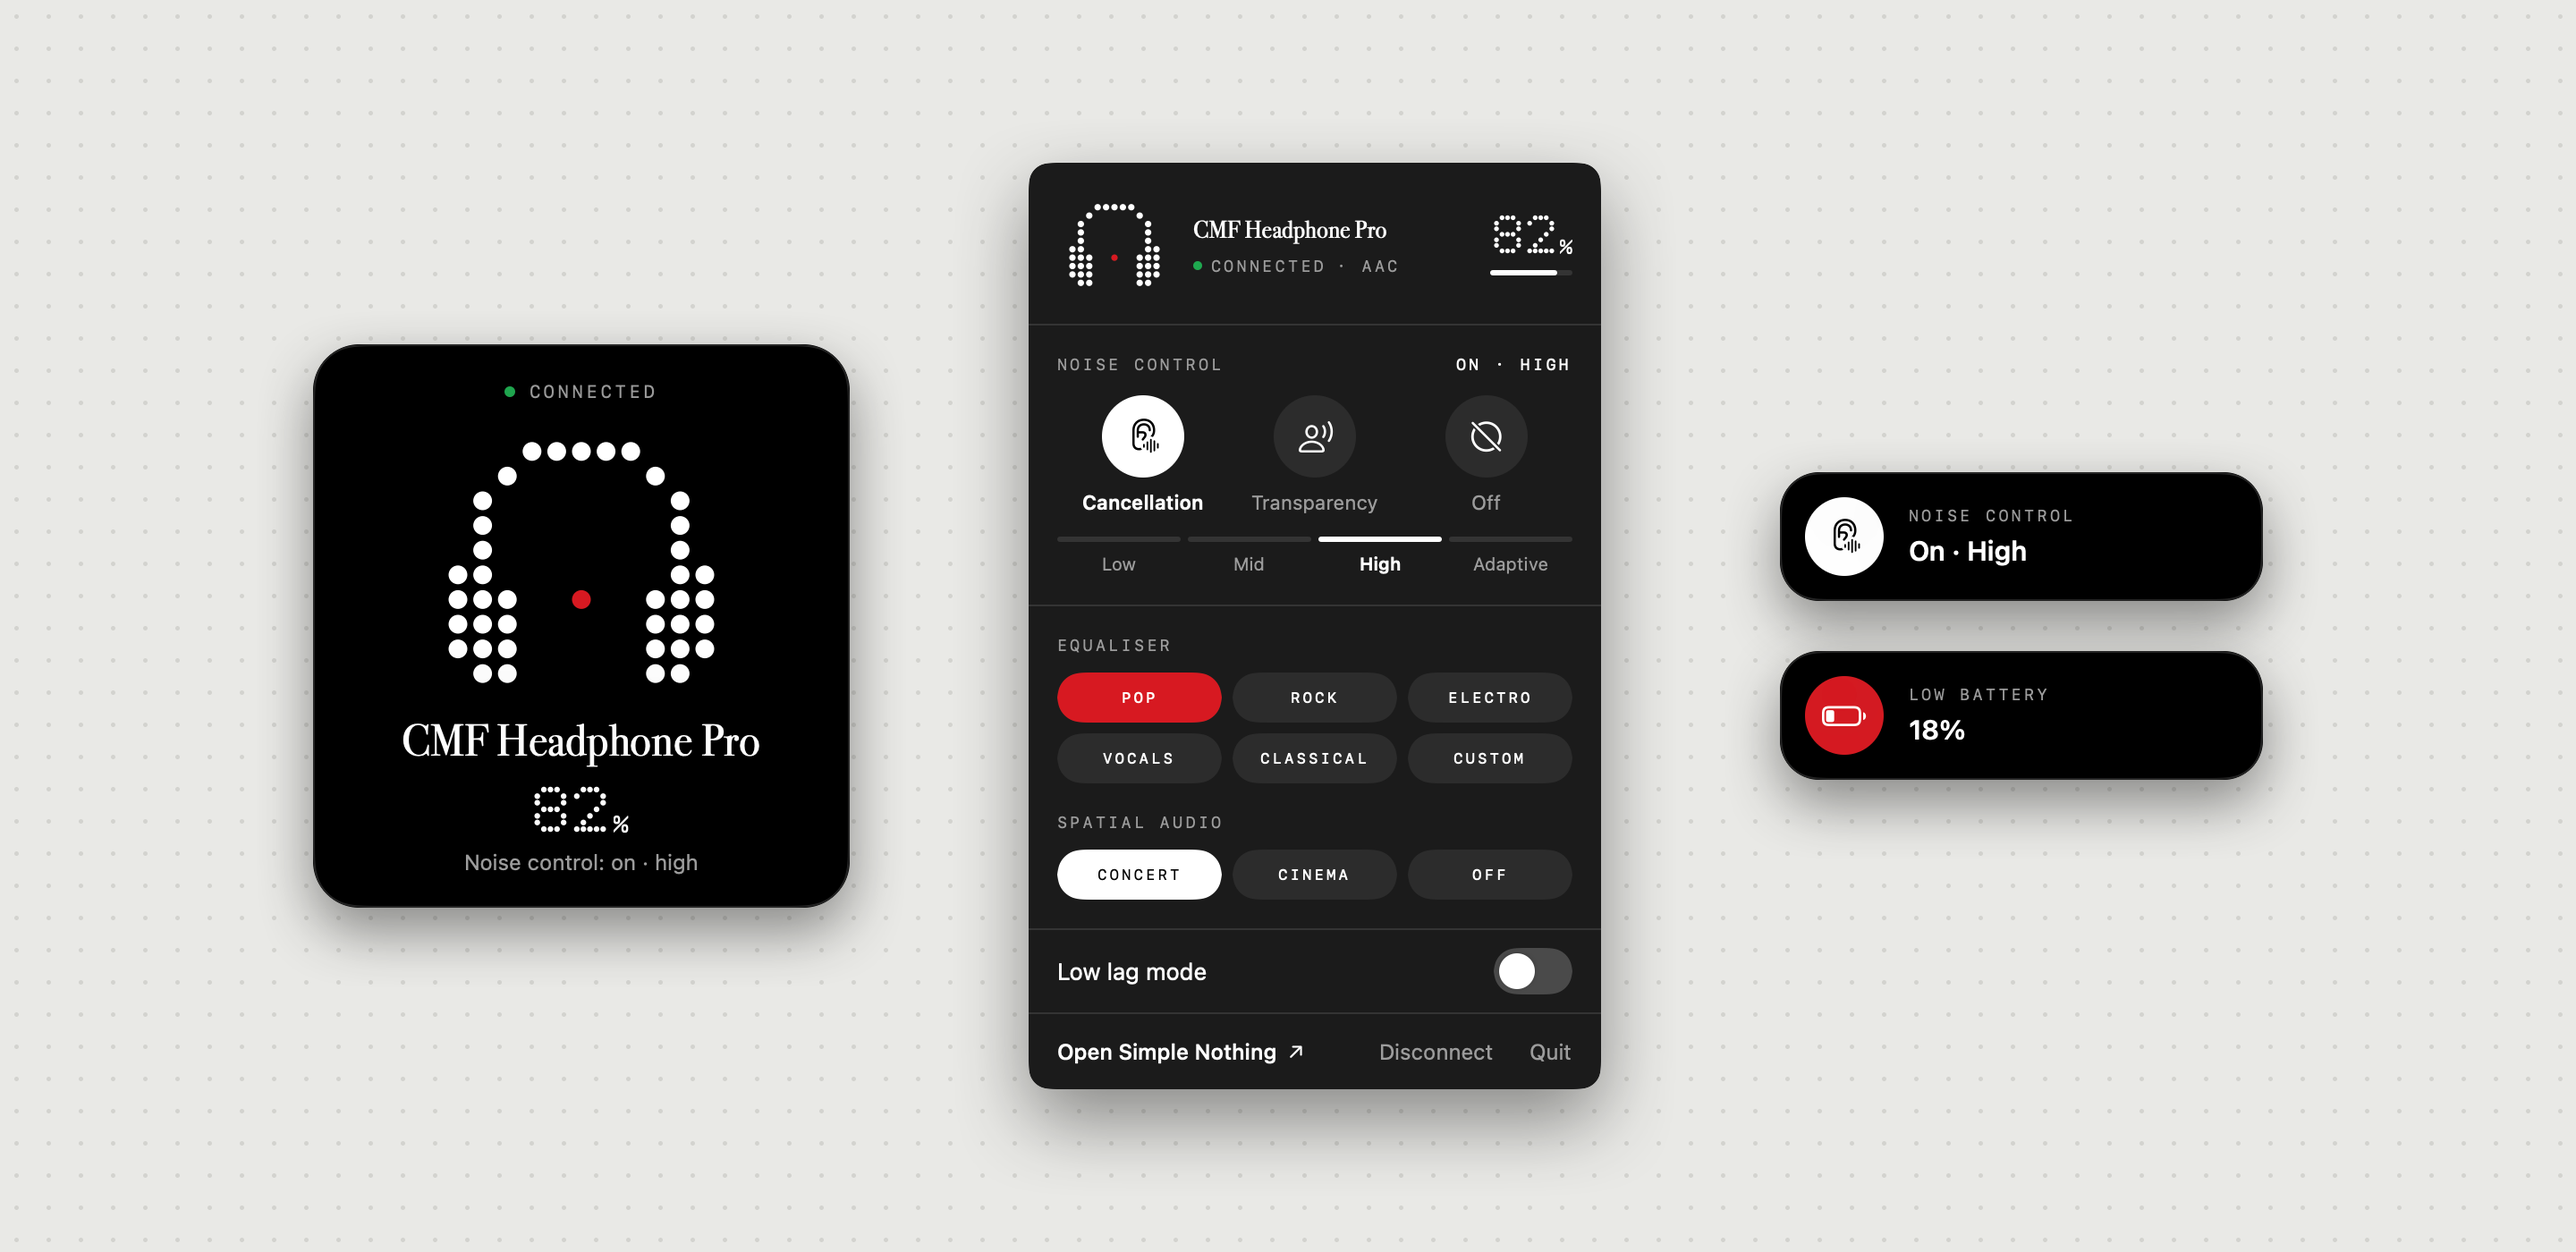
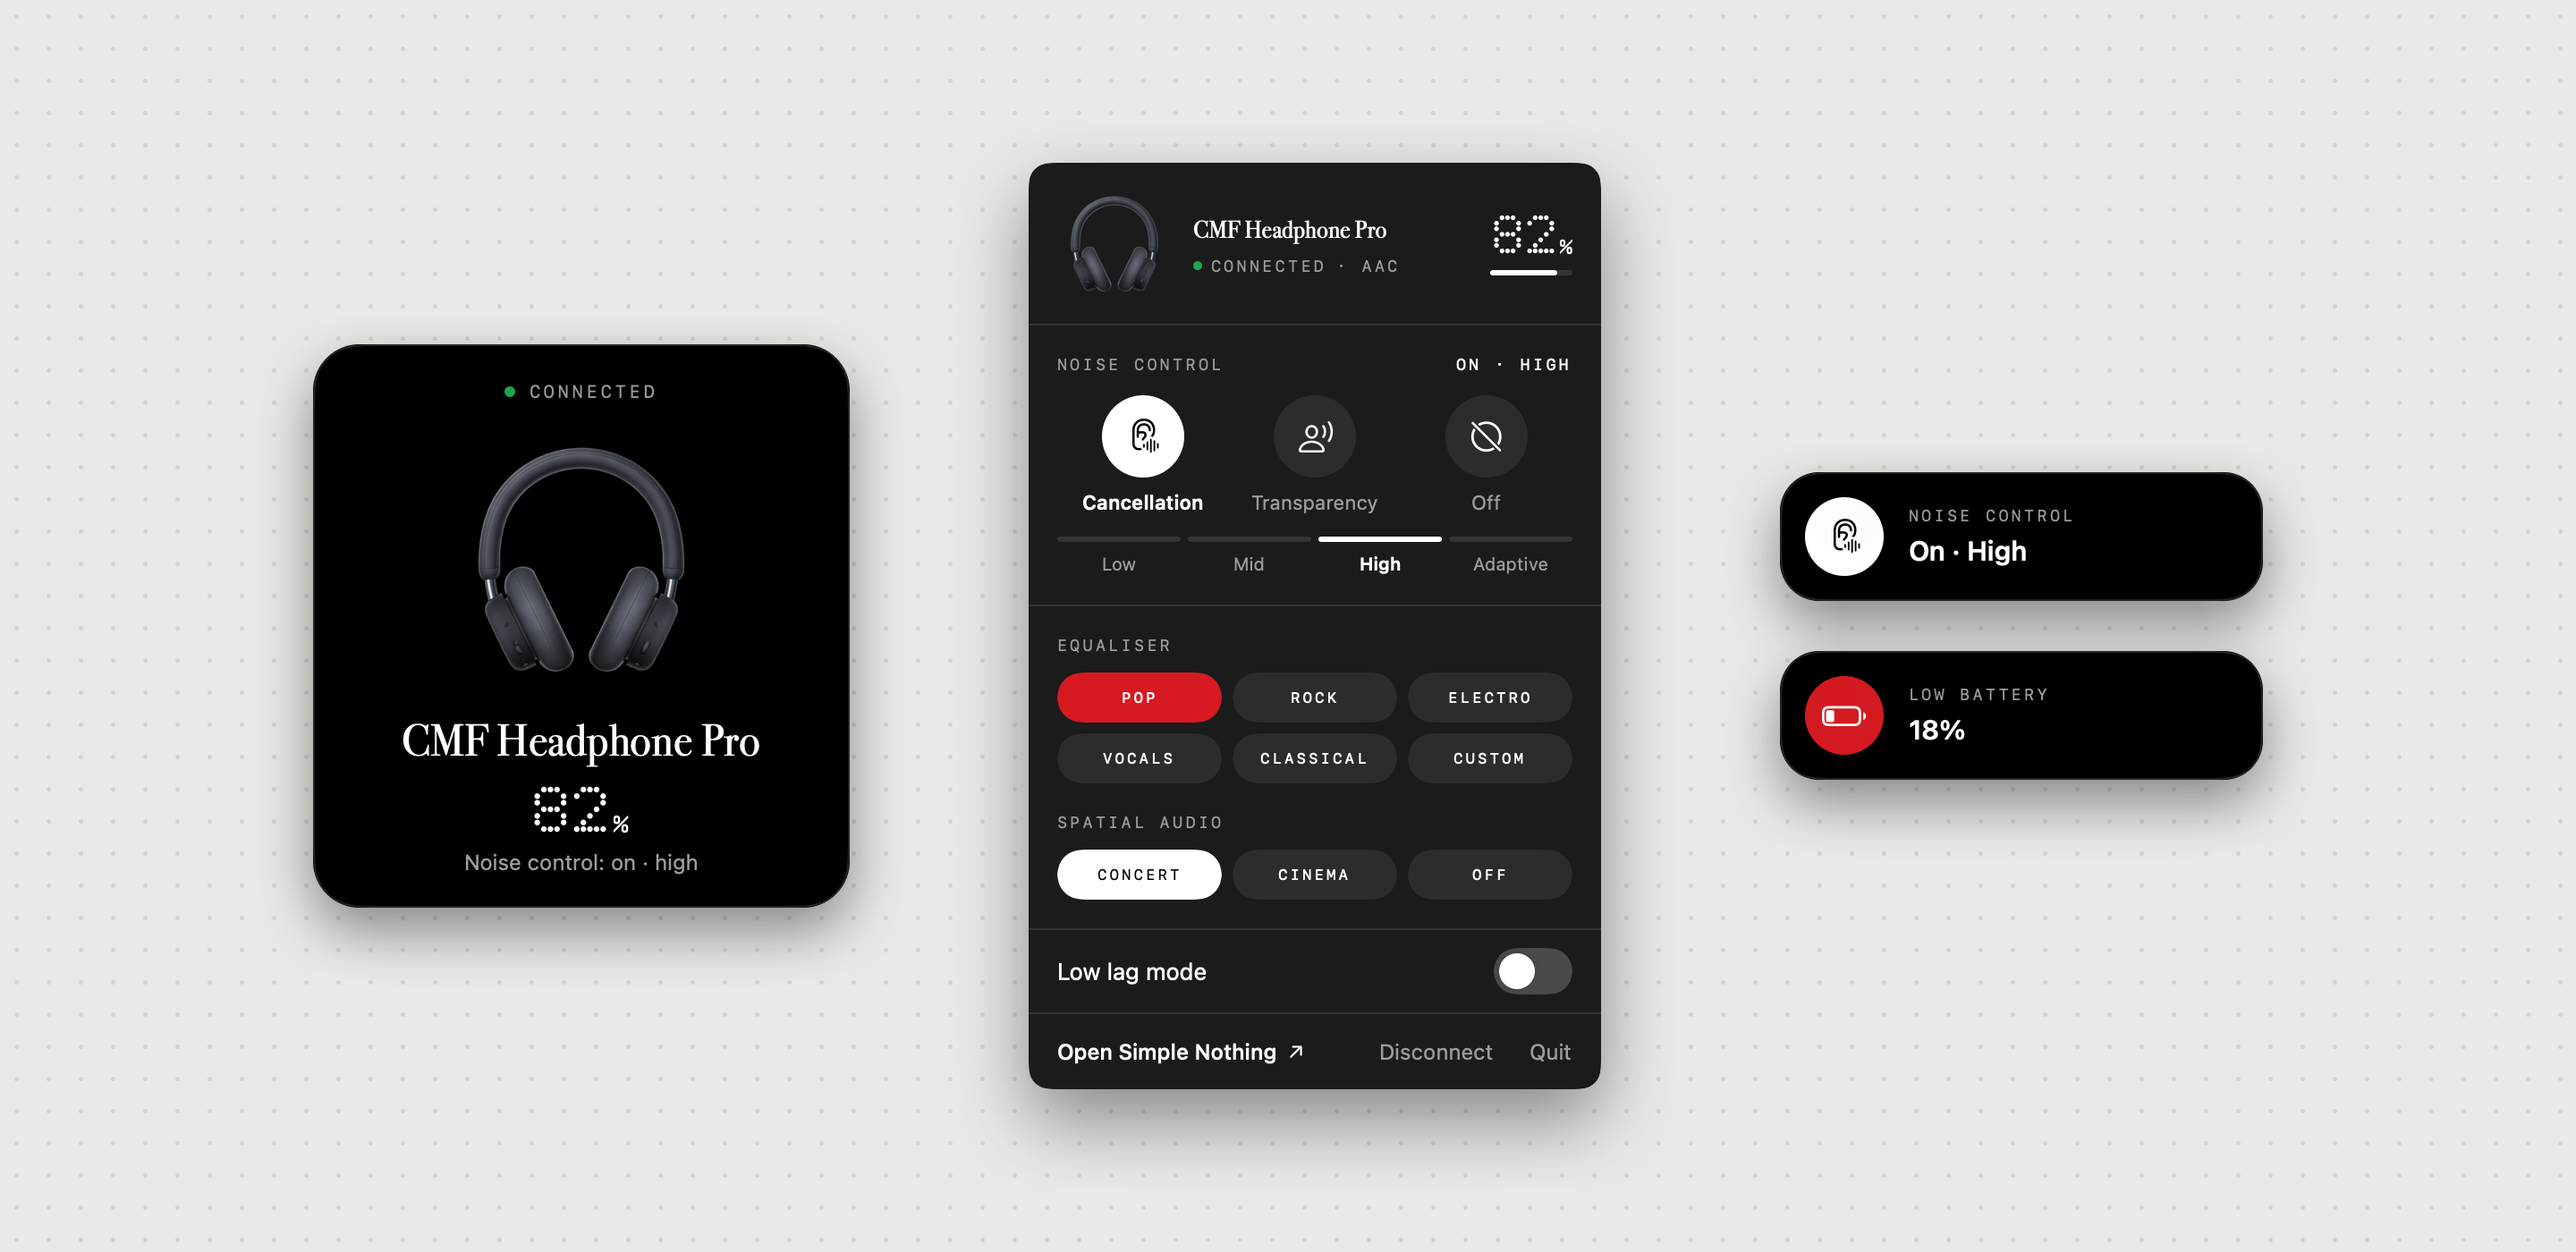
Visuels du README avec les photos des appareils, tels qu'après installation

Changed region(s): [[0.1562, 0.3379, 0.2812, 0.5529], [0.4062, 0.1536, 0.4688, 0.2457]]

diff --git a/README.fr.md b/README.fr.md
@@ -18,7 +18,7 @@ Hors de la fenêtre : une carte quand l'appareil se connecte, le panneau de la b
 
 ![Carte de connexion, panneau de la barre des menus et confirmations](docs/presentation-barre-des-menus.png)
 
-Ces visuels sont fabriqués à partir de l'app elle-même par `tools/make-screens.sh`, avec la version publique : l'appareil y est dessiné en points. Installée par `tools/install.sh`, l'app montre les vraies photos des produits.
+Ces visuels sont fabriqués à partir de l'app elle-même par `tools/make-screens.sh`, telle qu'on l'obtient après `tools/install.sh`.
 
 ## Installation
 
@@ -129,7 +129,7 @@ Puis ouvrir `http://localhost:4173/v2.html`. La barre noire en bas de page pilot
 Les photos des appareils et les polices appartiennent à Nothing (et à Lineto pour Lettera Mono) : elles ne sont pas dans le dépôt.
 
 - **Photos** : `tools/install.sh` les télécharge une fois depuis le dépôt public d'[Ear (web)](https://github.com/radiance-project/ear-web) et les range dans `originaux/ear-web/`, que git ignore. `NOTHING_SANS_IMAGES=1 tools/install.sh` s'en passe.
-- **Sans photos**, comme sur les captures ci-dessus, l'app dessine elle-même l'appareil et les grands chiffres en matrice de points.
+- **Sans photos**, l'app dessine elle-même l'appareil en matrice de points, comme les grands chiffres.
 - **Polices** : l'app prend ses caractères dans les polices du système (Bodoni 72 pour les noms, la police à chasse fixe du système pour les étiquettes).
 
 Si vous avez d'autres fichiers à vous, `originaux/` les accueille :

diff --git a/README.md b/README.md
@@ -18,7 +18,7 @@ Outside the window: a card when the device connects, the menu bar panel, and not
 
 ![Connection card, menu bar panel and notices](docs/presentation-barre-des-menus.png)
 
-These pictures are made from the app itself by `tools/make-screens.sh`, with the public build: the device is drawn in dots. Installed with `tools/install.sh`, the app shows the real product pictures.
+These pictures are made from the app itself by `tools/make-screens.sh`, as you get it after `tools/install.sh`.
 
 ## Install
 
@@ -118,7 +118,7 @@ produces `.build/SimpleNothing-<version>.zip`: the app alone, with no Nothing pi
 Device pictures and fonts belong to Nothing (and to Lineto for Lettera Mono): they are not in the repository.
 
 - **Pictures**: `tools/install.sh` downloads them once from the public [Ear (web)](https://github.com/radiance-project/ear-web) repository into `originaux/ear-web/`, which git ignores. `NOTHING_SANS_IMAGES=1 tools/install.sh` skips that.
-- **Without pictures**, as in the screenshots above, the app draws the device and the large numbers itself, as dot matrices.
+- **Without pictures**, the app draws the device itself as a dot matrix, like the large numbers.
 - **Fonts**: the app uses system fonts (Bodoni 72 for names, the system monospaced font for labels).
 
 If you have other files of your own, `originaux/` takes them:
